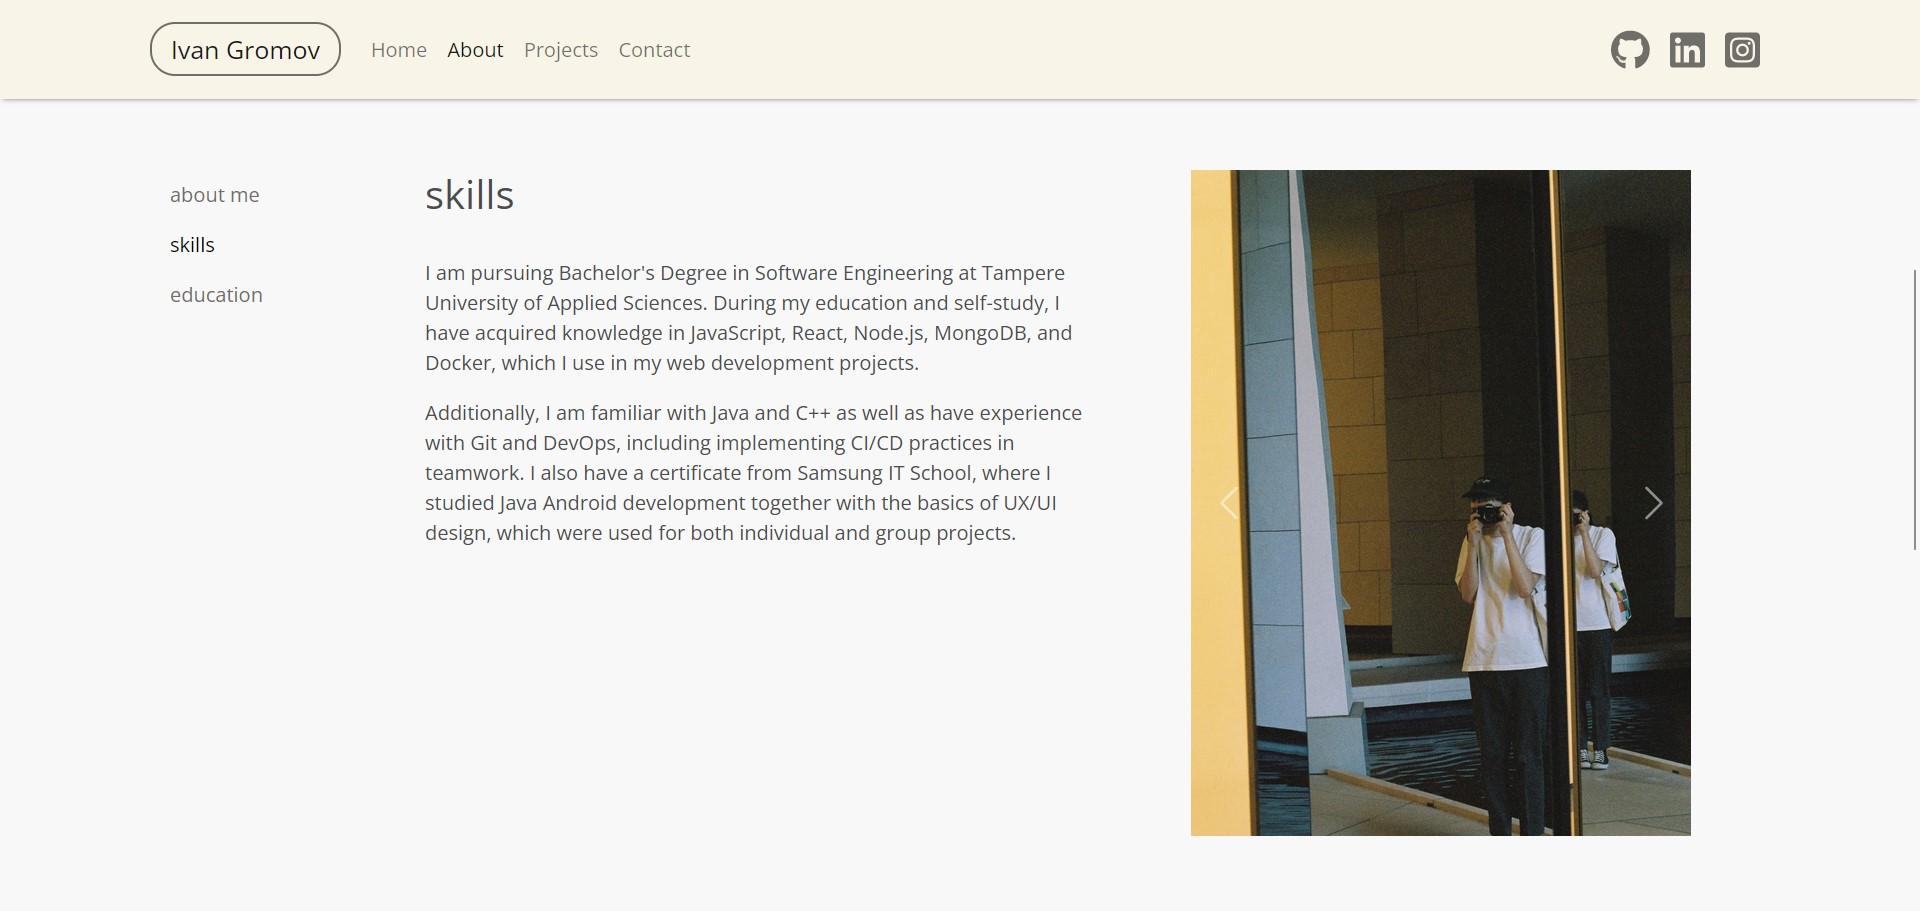
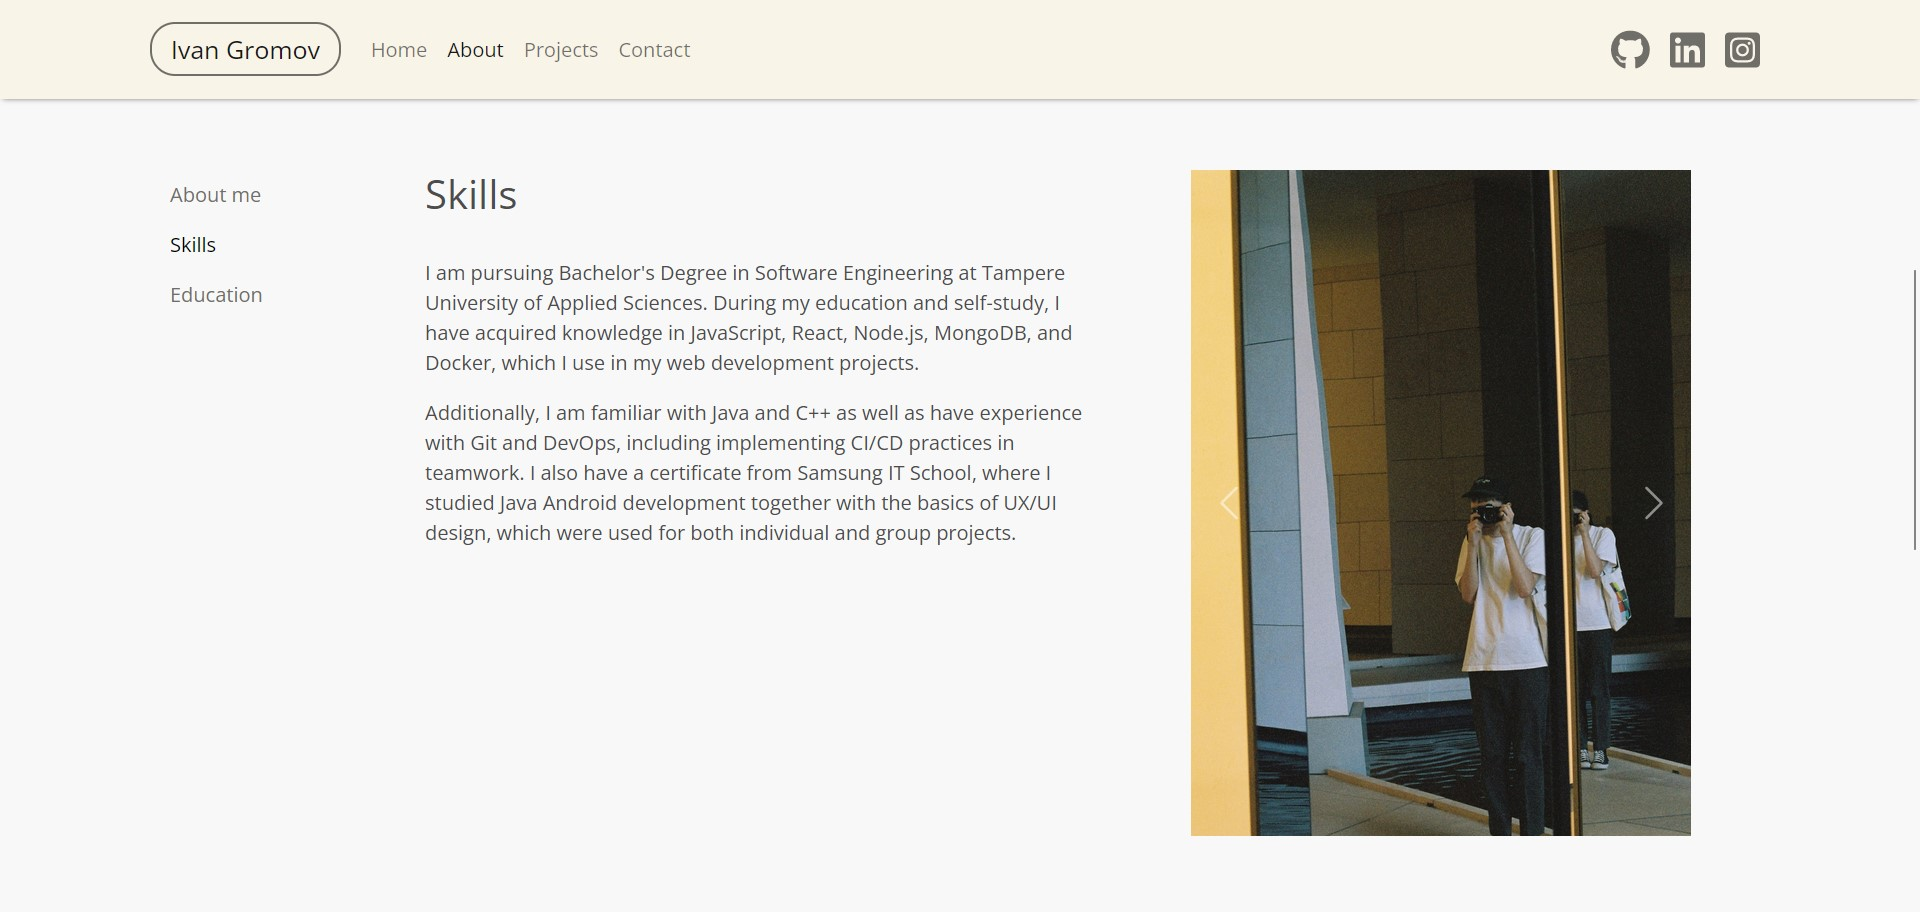
CV updated

diff --git a/src/components/About.js b/src/components/About.js
@@ -21,13 +21,13 @@ export default function About() {
           <div className="col-md-2">
             <Nav className="flex-column">
               <Nav.Item>
-                <Nav.Link className="tab-link" eventKey="about-me">about me</Nav.Link>
+                <Nav.Link className="tab-link" eventKey="about-me">About me</Nav.Link>
               </Nav.Item>
               <Nav.Item>
-                <Nav.Link className="tab-link" eventKey="skills">skills</Nav.Link>
+                <Nav.Link className="tab-link" eventKey="skills">Skills</Nav.Link>
               </Nav.Item>
               <Nav.Item>
-                <Nav.Link className="tab-link" eventKey="education">education</Nav.Link>
+                <Nav.Link className="tab-link" eventKey="education">Education</Nav.Link>
               </Nav.Item>
             </Nav>
           </div>
@@ -35,7 +35,7 @@ export default function About() {
             <Tab.Content>
               <Tab.Pane eventKey="about-me">
                 <div className="about-text">
-                  <h2>about me</h2>
+                  <h2>About Me</h2>
                   <br/>
                   <p>
                     Enthusiastic and responsible Software Engineering student with the desire to
@@ -50,7 +50,7 @@ export default function About() {
               </Tab.Pane>
               <Tab.Pane eventKey="skills">
                 <div className="skills-text">
-                  <h2>skills</h2>
+                  <h2>Skills</h2>
                   <br/>
                   <p>
                     I am pursuing Bachelor's Degree in Software Engineering at Tampere University of
@@ -69,7 +69,7 @@ export default function About() {
               </Tab.Pane>
               <Tab.Pane eventKey="education">
                 <div className="education-text">
-                  <h2>education</h2>
+                  <h2>Education</h2>
                   <br/>
                   <p>
                     Bachelor's Degree Programme in Software Engineering,<br />Tampere
